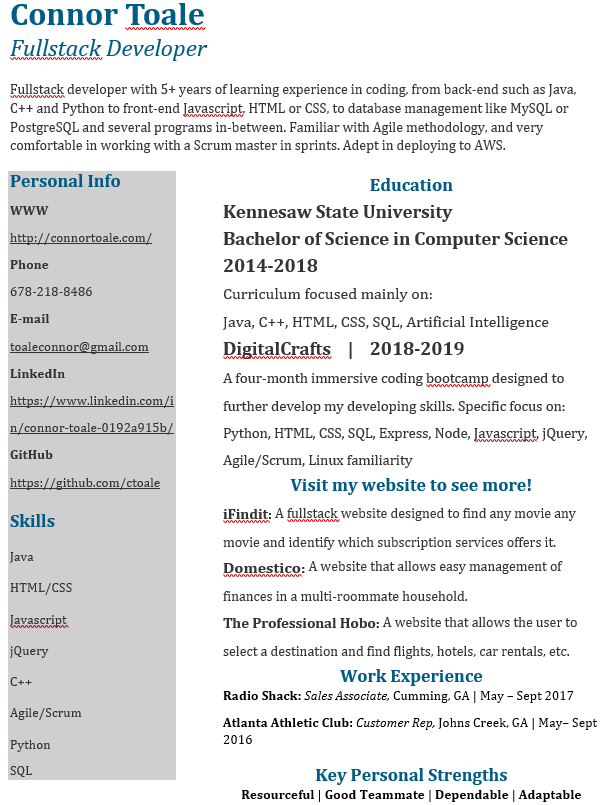
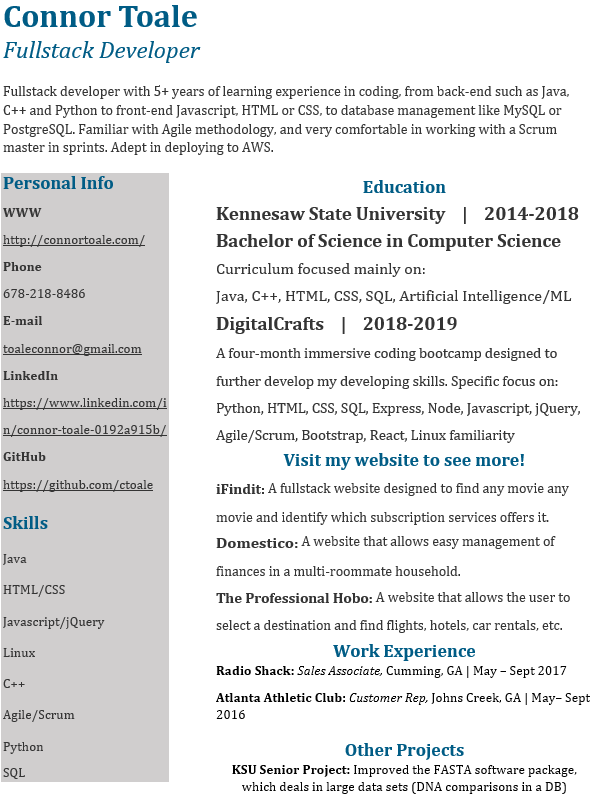
added skills, fixed mobile, added resume download

Changed region(s): [[0.3624, 0.2174, 0.9966, 0.9938], [0.0, 0.0, 0.9664, 0.9938]]

diff --git a/index.html b/index.html
@@ -9,6 +9,7 @@
     <link href="https://fonts.googleapis.com/css?family=Muli:300,300i,400,400i,600,600i,700,700i,800,800i,900" rel="stylesheet">
     <link rel="stylesheet" href="https://cdn.rawgit.com/konpa/devicon/df6431e323547add1b4cf45992913f15286456d3/devicon.min.css">
     <link rel="stylesheet" href="https://use.fontawesome.com/releases/v5.6.3/css/all.css" integrity="sha384-UHRtZLI+pbxtHCWp1t77Bi1L4ZtiqrqD80Kn4Z8NTSRyMA2Fd33n5dQ8lWUE00s/" crossorigin="anonymous">
+    <link rel="stylesheet" href="https://cdn.rawgit.com/konpa/devicon/df6431e323547add1b4cf45992913f15286456d3/devicon.min.css">
     <script src="https://ajax.googleapis.com/ajax/libs/jquery/3.3.1/jquery.min.js"></script>
 </head>
 <body>
@@ -36,9 +37,11 @@
         <script>
             $(document).ready(function(){
                 $("div.resume-box").hide();
+                $("div.download").hide();
             });
             function open_resume() {
                 $("div.resume-box").toggle();
+                $("div.download").toggle();
             }
         </script>
 
@@ -46,8 +49,75 @@
             <button onclick="open_resume()">Click here to display my resume!<br/>(Includes contact information!)<br/></button>
         </div>
 
+        <div class="download">
+            <form method="get" action="Connor Toale Resume.docx">
+                <button type="submit">Click here to download a copy of my resume!</button>
+            </form>
+        </div>
         <div class="resume-box">
             <img src="Images/resume.PNG" height="950" width="700" margin="auto">
+        </div>
+    </div>
+    <div class="skills-wrapper">
+        <div class="skills-transparent">
+            <div class="skills">
+                <h2>Skills</h2>
+                <div class="skills-icon-container">
+                    <div class="skills-icon">
+                        <i class="devicon-amazonwebservices-plain-wordmark"></i>
+                    </div>
+                    <div class="skills-icon">
+                        <i class="devicon-apache-line-wordmark"></i>
+                    </div>
+                    <div class="skills-icon">
+                        <i class="devicon-bootstrap-plain-wordmark"></i>
+                    </div>
+                    <div class="skills-icon">
+                        <i class="devicon-css3-plain-wordmark"></i>
+                    </div>
+                    <div class="skills-icon">
+                        <i class="devicon-express-original-wordmark"></i>
+                    </div>
+                    <div class="skills-icon">
+                        <i class="devicon-git-plain-wordmark"></i>
+                    </div>
+                    <div class="skills-icon">
+                        <i class="devicon-html5-plain-wordmark"></i>
+                    </div>
+                    <div class="skills-icon">
+                        <i class="devicon-java-plain-wordmark"></i>
+                    </div>
+                    <div class="skills-icon">
+                        <i class="devicon-javascript-plain"></i>
+                    </div>
+                    <div class="skills-icon">
+                        <i class="devicon-jquery-plain-wordmark"></i>
+                    </div>
+                    <div class="skills-icon">
+                        <i class="devicon-linux-plain"></i>
+                    </div>
+                    <div class="skills-icon">
+                        <i class="devicon-mysql-plain-wordmark"></i>
+                    </div>
+                    <div class="skills-icon">
+                        <i class="devicon-nodejs-plain-wordmark"></i>
+                    </div>
+                    <div class="skills-icon">
+                        <i class="devicon-postgresql-plain-wordmark"></i>
+                    </div>
+                    <div class="skills-icon">
+                        <i class="devicon-python-plain-wordmark"></i>
+                    </div>
+                    </div>
+            </div>
+            <div class="skills-second-container">
+                <div class="skills-icon">
+                    <i class="devicon-react-original-wordmark"></i>
+                </div>
+                <div class="skills-icon">
+                    <i class="devicon-cplusplus-line-wordmark"></i>
+                </div>
+            </div>
         </div>
     </div>
     <div class="featured-wrapper">
@@ -90,6 +160,13 @@
                             <p>Utilizes HTML, CSS, Javascript, and MySQL.</p>
                         </div>
                 </div>
+                <div class="senior">
+                    <img src="Images/KSU_logo.jpg">
+                    <div class="overlay">
+                        <a href="https://github.com/ctoale/Bioinformatics-Senior-Project" target = "_blank"><button type="button">KSU Senior Project</button></a>
+                        <p>A semester-long project undertaken to improve the FASTA software package. Successfully increased efficiency by ~18%.</p>
+                    </div>
+            </div>
             </div>
         </div>
     </div>

diff --git a/style.css b/style.css
@@ -170,6 +170,26 @@ main button{
     flex-direction: column;
     margin: 0px 350px 0px 350px;
 }
+.download{
+    display: flex;
+    justify-content: center;
+    margin-bottom: 30px;
+}
+.download button {
+    color: black;
+    height: 50px;
+    border: none;
+    background: rgb(248, 175, 91);
+    padding: 16px 62px;
+	margin: 16px 6px 25px;
+	text-transform: uppercase;
+    letter-spacing: 0.05em;
+    border-radius: 50%;
+}
+.download button:hover {
+	transition: all 0.7s ease;
+    background-color: #da8506;
+}
 #service{
     background-image: url("Images/wallpaper5.png");
     background-size: 100%;
@@ -196,6 +216,20 @@ main button{
 	padding: 62px 50px 41px;
     max-width: 935px;
     display: inline-block;
+}
+.skills-wrapper {
+	width: 100%;
+    /* background-color: #eff8ff; */
+    background-image: url("Images/wallpaper3.jpg");
+	text-align: center;
+}
+.skills{
+	padding: 62px 50px 0px;
+    max-width: 935px;
+    display: inline-block;
+    /* display: flex;
+    flex-direction: column;
+    justify-content: center; */
 }
 .featured h2 {
 	margin: 20px;
@@ -233,15 +267,48 @@ main button{
 .featured p {
 	padding: 18px;
 }
+.skills-transparent{
+    background-color:  rgb(0, 0, 0,0.5);
+    color: white;
+}
+.skills p {
+	padding: 18px;
+}
+.skills-icon {
+    /* width: 100%; */
+    padding: 2rem;
+    height: 100%;
+    font-size: 7rem;
+}
+.skills-icon-container{
+    width: 100%;
+    display: flex;
+    flex-wrap: wrap;
+}
+.skills-second-container{
+    width: 100%;
+    justify-content: center;
+    display: flex;
+    flex-wrap: wrap;
+}
 .featured-split-video, .featured-split-code {
 	display: inline-block;
-	width: 545px;
+	width: 100%;
 }
 .project {
 	border: 4px solid #eaebed;
 	display: inline-block;
     width: 390px;
     height: 400px;
+    overflow: hidden;
+	text-align: center;
+	position: relative;
+}
+.senior{
+    border: 4px solid #eaebed;
+	display: inline-block;
+    width: 390px;
+    height: 100%;
     overflow: hidden;
 	text-align: center;
 	position: relative;
@@ -521,6 +588,11 @@ main button{
         background-image: url("Images/wallpaper5.jpg");
         background-size: 100% 700px;
         background-repeat: no-repeat;
+    }
+    .skills-icon {
+        width: 100%;
+        height: 100%;
+        font-size: 7rem;
     }
     .transparent_box{
         margin-top: -40px;
